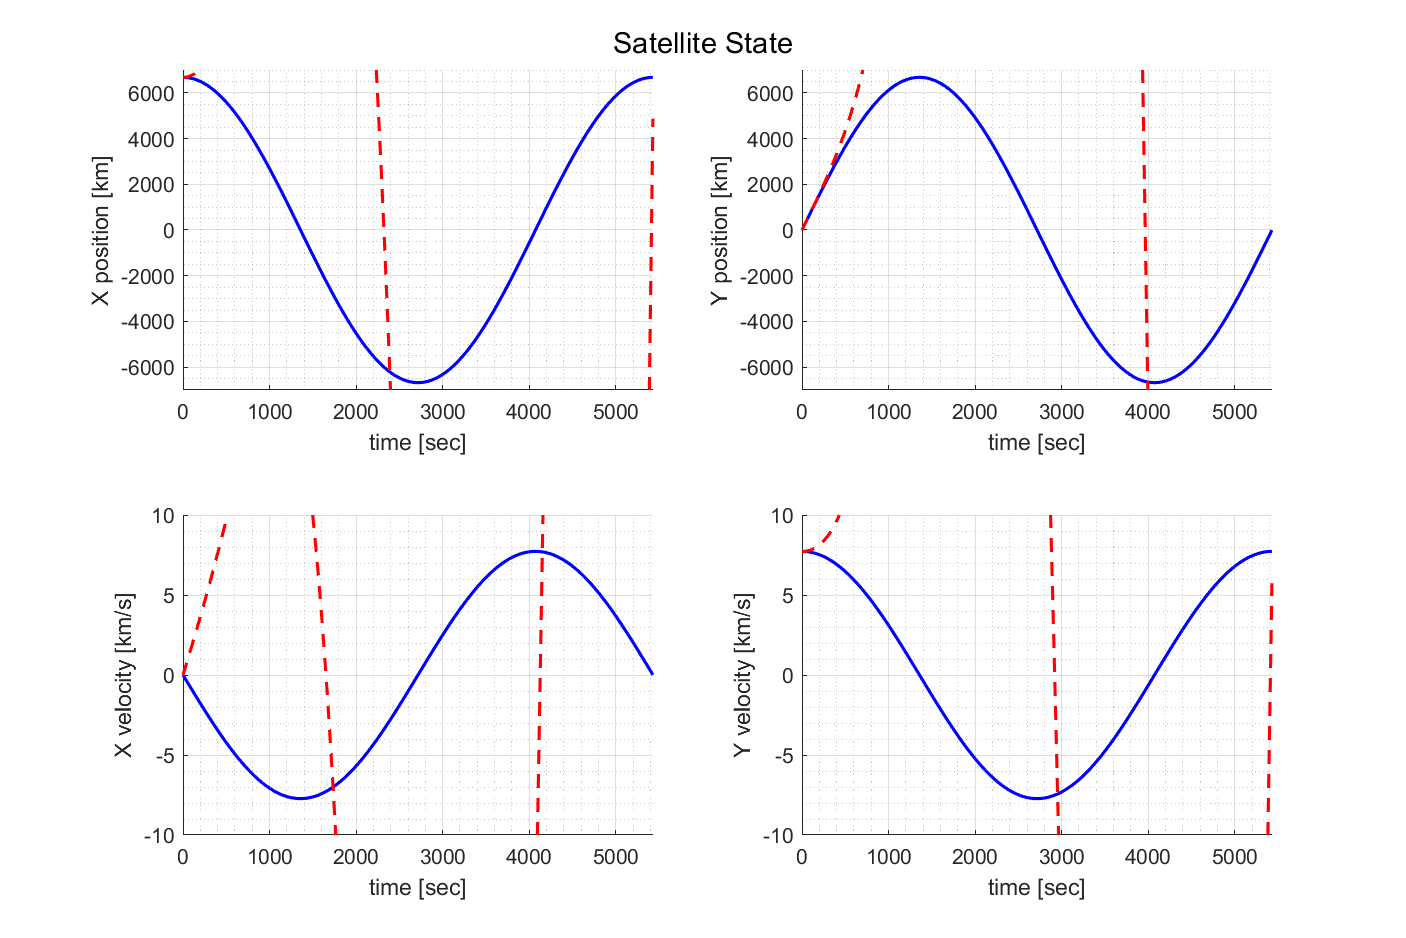
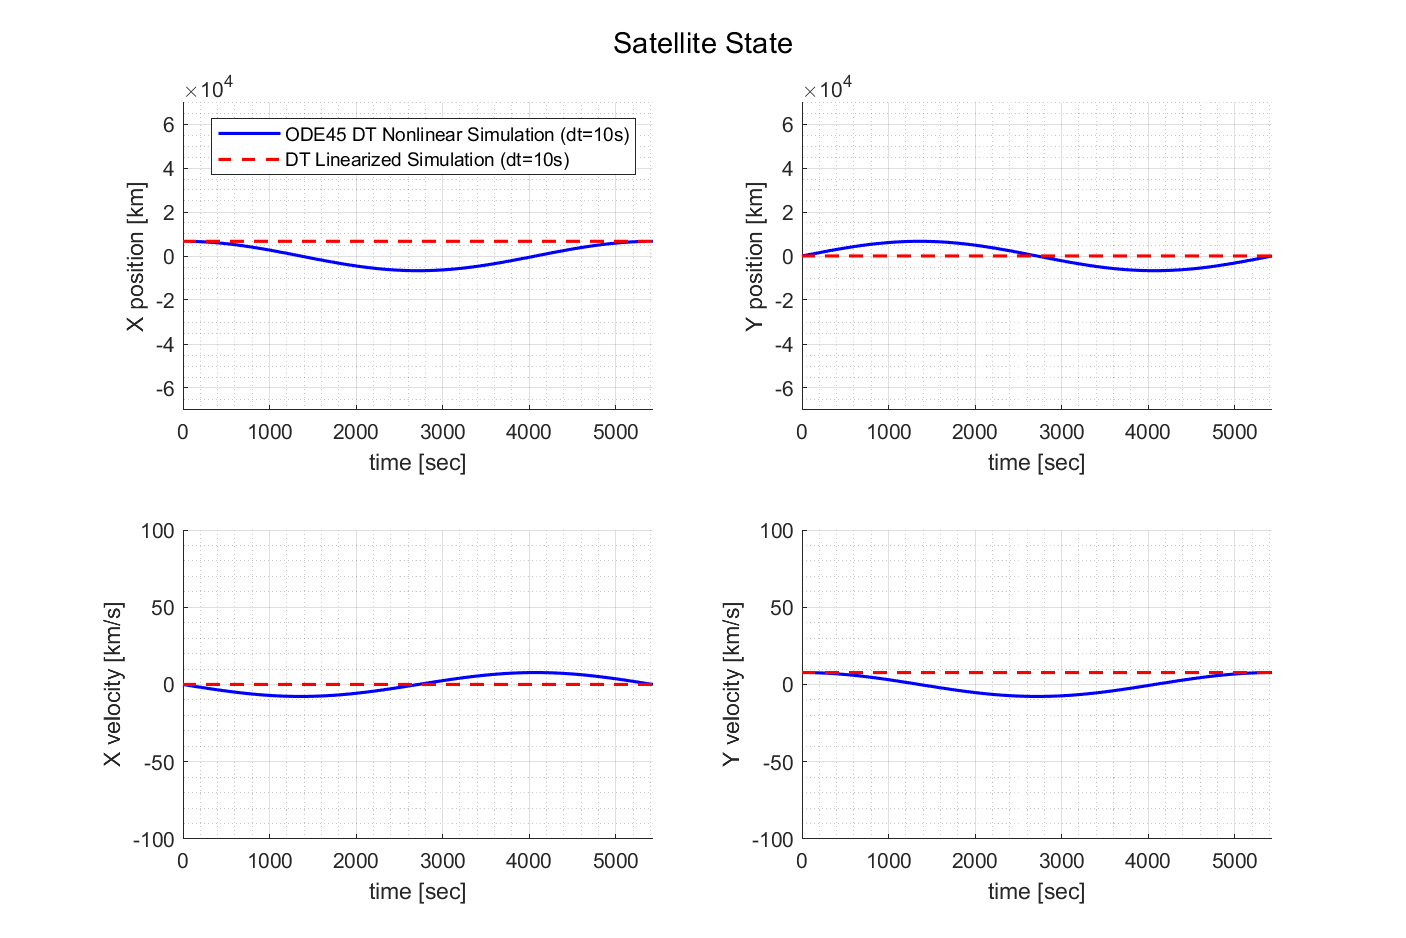
Messing with deltax

diff --git a/ASEN5044_HW8_problem2.m b/ASEN5044_HW8_problem2.m
@@ -42,14 +42,15 @@ dt = 10;
 
 % Nominalize the A matrix
 
-
-updatex = x0;
-
-x_sim = [];
-for i = 1:length(t_vec)
-        x_sim = horzcat(x_sim, updatex);
-        F = F_variant(S(i,1),S(i,3));
-        updatex = F*updatex;
+dx = [0, 0, 0, 0]';
+x_sim = xo;
+for i = 2:length(t_vec)
+    
+    x_sim = horzcat(x_sim, updatex);
+    F = F_variant(S(i,1),S(i,3));
+    dx = F*dx;
+    updatex = updatex + dx;
+    dx = x_sim(:,i)-x_sim(:,i-1);
 end
 x_sim = x_sim';
 
@@ -64,7 +65,7 @@ x_sim = x_sim';
 
 
 fprintf('Plotting Satellite for 1 Orbit:\n');
-fprintf("x0 = [6678, 0, 0, 7.7258]' + [1, 1, 0.1, 0.1]'");
+fprintf("x0 = [6678, 0, 0, 7.7258]'");
 
 fig = figure('visible','on');
 set(fig,'Position',[100 100 900 600]);
@@ -73,15 +74,16 @@ sgtitle('Satellite State');
 subplot(2,2,1); hold on; grid on; grid minor;
 plot(T,S(:,1),'b-','LineWidth',1.5);
 plot(t_vec,x_sim(:,1),'r--','LineWidth',1.5);
-ylim([-7000 7000]);
+ylim([-70000 70000]);
 xlabel('time [sec]');
 ylabel('X position [km]');
+legend('ODE45 DT Nonlinear Simulation (dt=10s)','DT Linearized Simulation (dt=10s)');
 xlim([0 P]);
 
 subplot(2,2,2); hold on; grid on; grid minor;
 plot(T,S(:,3),'b-','LineWidth',1.5);
 plot(t_vec,x_sim(:,3),'r--','LineWidth',1.5);
-ylim([-7000 7000]);
+ylim([-70000 70000]);
 xlabel('time [sec]');
 ylabel('Y position [km]');
 xlim([0 P]);
@@ -89,7 +91,7 @@ xlim([0 P]);
 subplot(2,2,3); hold on; grid on; grid minor;
 plot(T,S(:,2),'b-','LineWidth',1.5);
 plot(t_vec,x_sim(:,2),'r--','LineWidth',1.5);
-ylim([-10 10]);
+ylim([-100 100]);
 xlabel('time [sec]');
 ylabel('X velocity [km/s]');
 xlim([0 P]);
@@ -97,7 +99,7 @@ xlim([0 P]);
 subplot(2,2,4); hold on; grid on; grid minor;
 plot(T,S(:,4),'b-','LineWidth',1.5);
 plot(t_vec,x_sim(:,4),'r--','LineWidth',1.5);
-ylim([-10 10]);
+ylim([-100 100]);
 xlabel('time [sec]');
 ylabel('Y velocity [km/s]');
 xlim([0 P]);
@@ -113,9 +115,9 @@ r0_nom = 6678;          % km
 dt = 10;
 
 F = expm(dt*[0, 1, 0, 0;
-        mu*(2*X^2-Y^2)*(r0_nom)^(-5), 0, (3*mu*X*Y)*(r0_nom)^(-5), 0;
+        (-mu*(r0_nom)^(-3))+(3*mu*X^2*r0_nom^(-5)), 0, 3*mu*X*Y*r0_nom^(-5), 0;
         0, 0, 0, 1;
-        (3*mu*X*Y)*(r0_nom)^(-5), 0, -mu*(X^2-2*Y^2)*(r0_nom)^(-5), 0]);
+        (3*mu*X*Y)*r0_nom^(-5), 0, (-mu*r0_nom^(-3))+(3*mu*Y^2*r0_nom^(-5)), 0]);
 
 end
 
